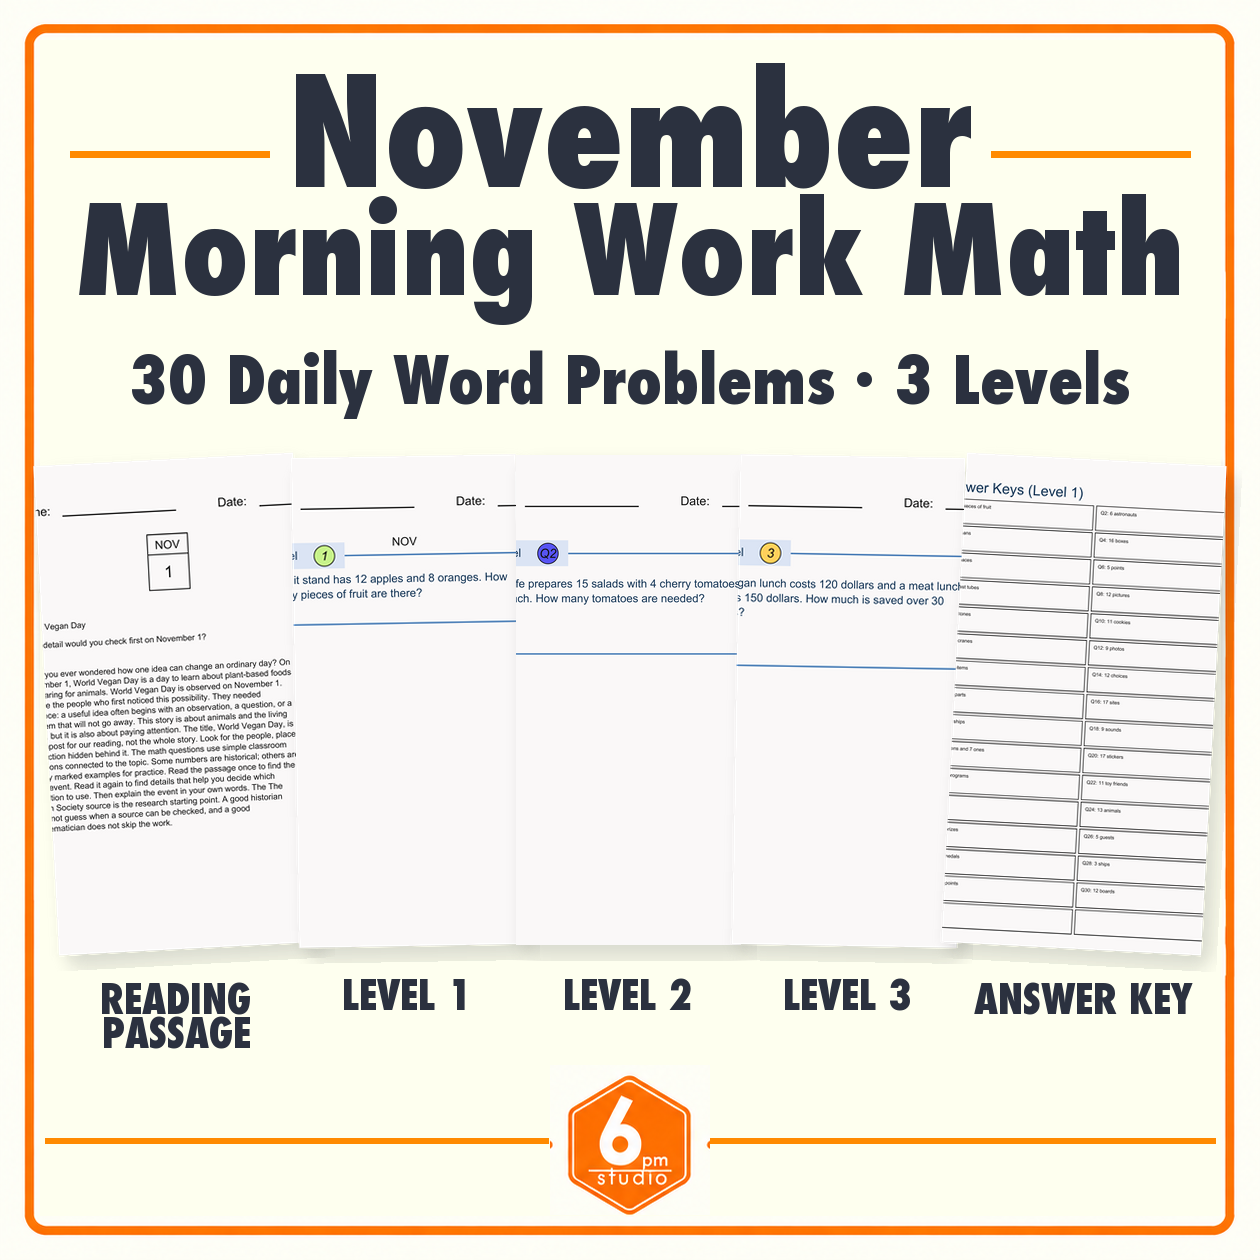
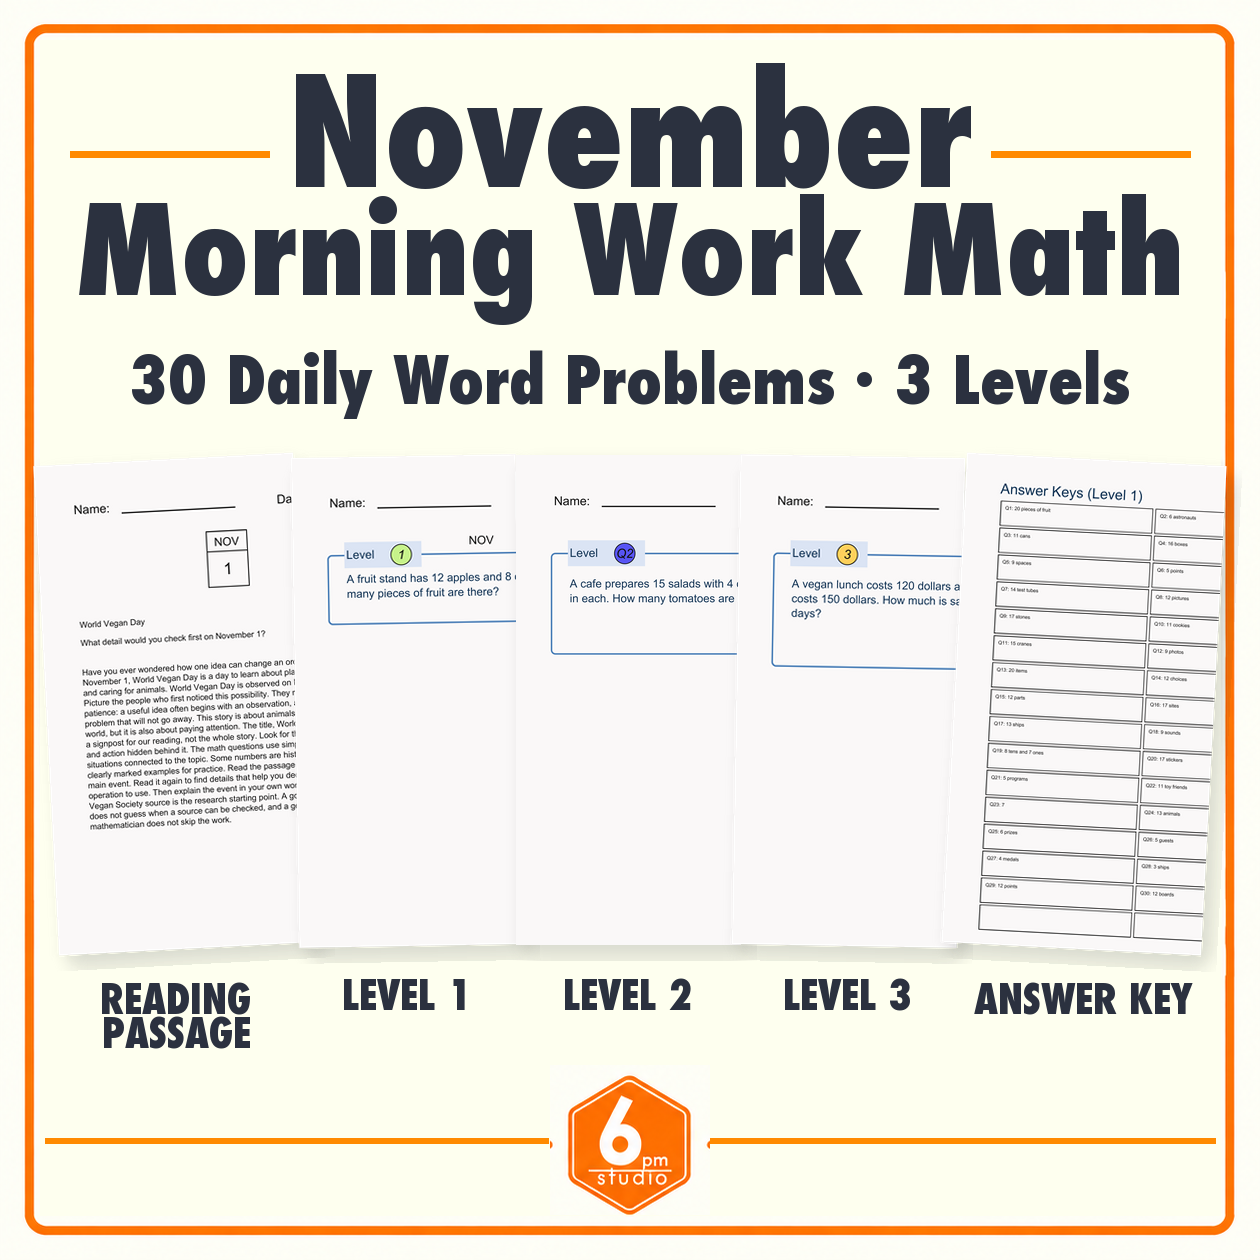
Keep worksheet crops left anchored

diff --git a/scripts/generate_monthly_thumbnails.py b/scripts/generate_monthly_thumbnails.py
@@ -219,7 +219,7 @@ def fit_page_preserving_aspect(source, target_size):
         source,
         target_size,
         method=Image.Resampling.LANCZOS,
-        centering=(0.5, 0.5),
+        centering=(0.0, 0.5),
     )
 
 
